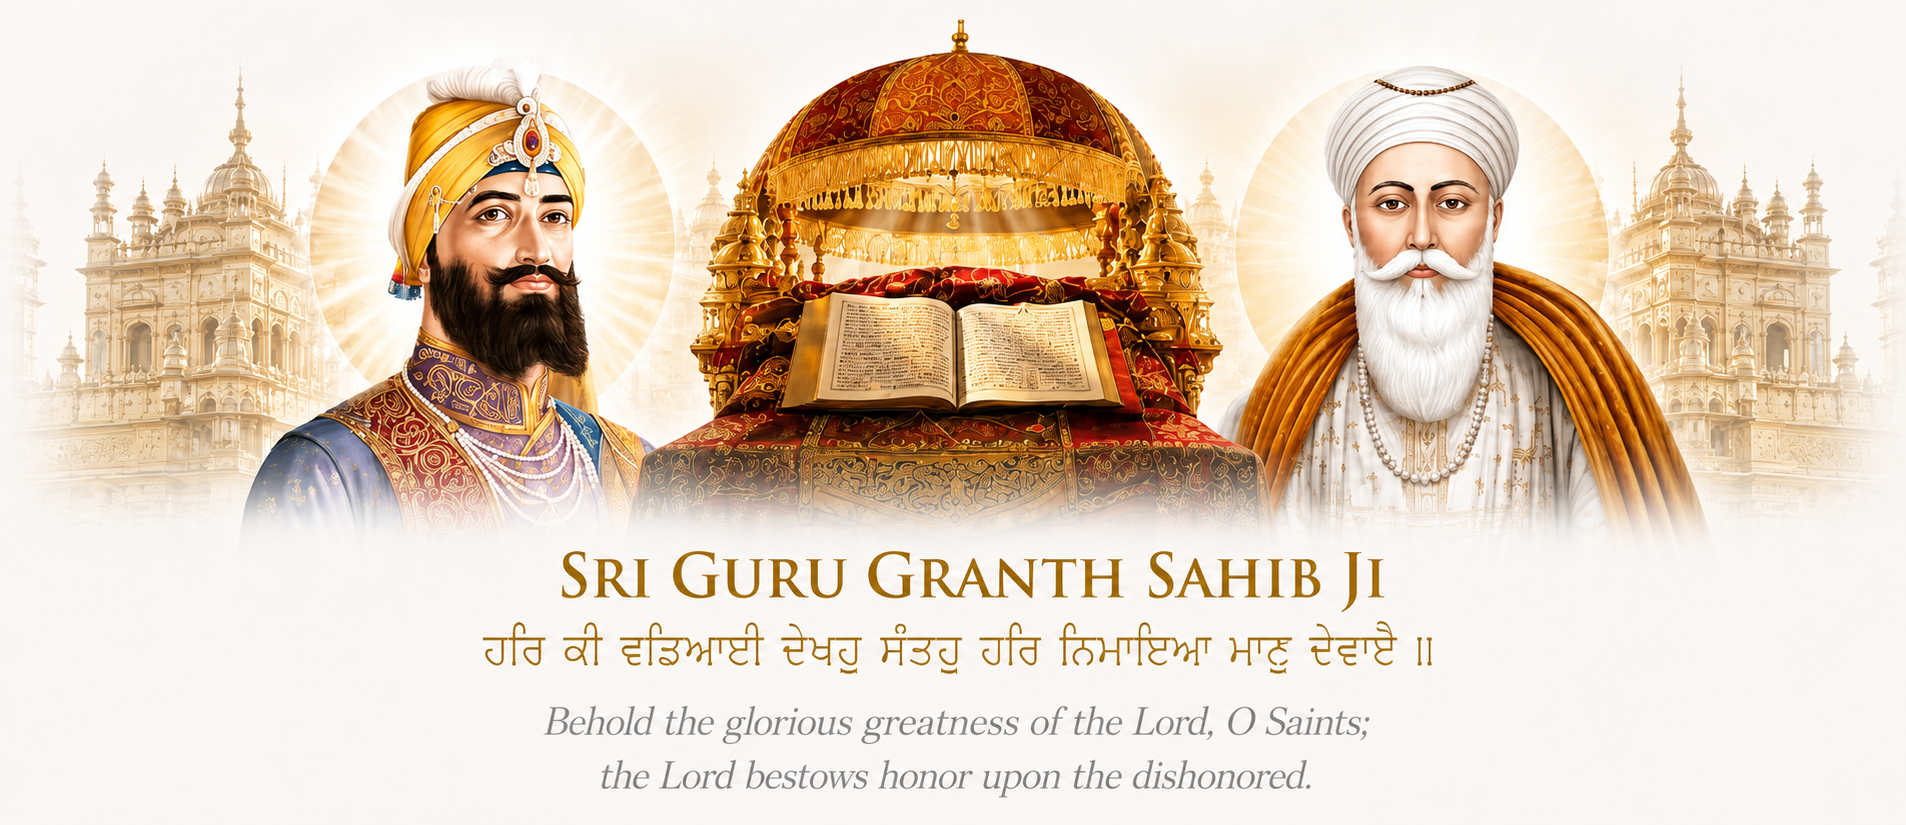
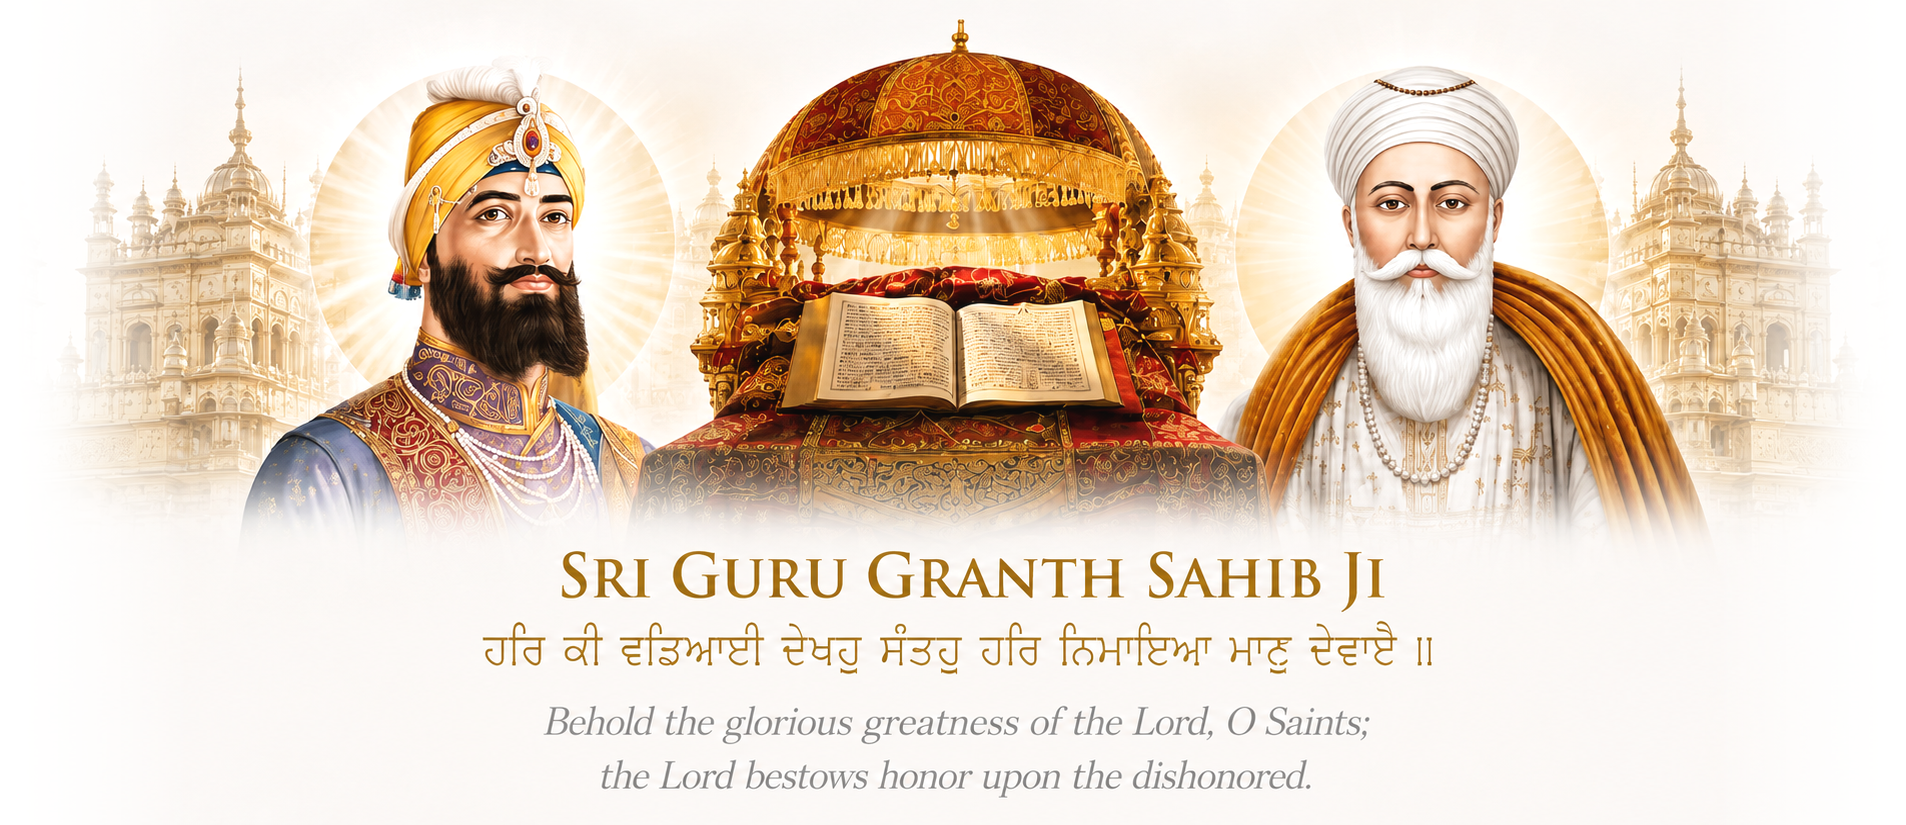
fix: dark mode guru portraits visibility, feathered hero sides & soft contrast, full translation clearance, and refined gurpurab card, v10.57.0

Changed region(s): [[0.8977, 0.2121, 1.0, 0.6061], [0.0, 0.2121, 0.0929, 0.6061]]

diff --git a/frontend/index.html b/frontend/index.html
@@ -337,6 +337,234 @@
       background: #D4943A !important;
       box-shadow: 0 0 10px rgba(212, 148, 58, 0.6) !important;
     }
+  
+    /* ─── DARK MODE / DYNAMIC NIGHT: GURU SLIDER VISIBILITY OVERRIDES ─── */
+    .greeting__portrait-slider {
+      position: relative !important;
+      width: 100% !important;
+      height: 160px !important;
+      overflow: visible !important;
+      touch-action: pan-y !important;
+      display: flex !important;
+      align-items: center !important;
+      justify-content: center !important;
+      user-select: none !important;
+      -webkit-user-select: none !important;
+      -webkit-user-drag: none !important;
+      cursor: grab !important;
+    }
+    .greeting__slider-track {
+      position: relative !important;
+      width: 100% !important;
+      height: 100% !important;
+      display: flex !important;
+      align-items: center !important;
+      justify-content: center !important;
+      opacity: 1 !important;
+      visibility: visible !important;
+    }
+    .greeting__slide {
+      position: absolute !important;
+      transition: transform 0.35s cubic-bezier(0.25, 1, 0.5, 1), opacity 0.3s ease, filter 0.3s ease !important;
+      opacity: 0 !important;
+      visibility: hidden !important;
+      pointer-events: none !important;
+      transform: scale(0.6) translateX(0) !important;
+      cursor: pointer !important;
+      user-select: none !important;
+      -webkit-user-select: none !important;
+      -webkit-user-drag: none !important;
+      display: block !important;
+    }
+    .greeting__slide--active {
+      opacity: 1 !important;
+      visibility: visible !important;
+      transform: scale(1.22) translateX(0) !important;
+      z-index: 10 !important;
+      pointer-events: auto !important;
+      filter: drop-shadow(0 8px 24px rgba(212, 148, 58, 0.45)) !important;
+    }
+    .greeting__slide--prev {
+      opacity: 0.72 !important;
+      visibility: visible !important;
+      transform: scale(0.85) translateX(-96px) !important;
+      z-index: 5 !important;
+      pointer-events: auto !important;
+      filter: drop-shadow(0 4px 14px rgba(0,0,0,0.4)) !important;
+    }
+    .greeting__slide--next {
+      opacity: 0.72 !important;
+      visibility: visible !important;
+      transform: scale(0.85) translateX(96px) !important;
+      z-index: 5 !important;
+      pointer-events: auto !important;
+      filter: drop-shadow(0 4px 14px rgba(0,0,0,0.4)) !important;
+    }
+    .greeting__slide--far-prev {
+      opacity: 0.28 !important;
+      visibility: visible !important;
+      transform: scale(0.62) translateX(-160px) !important;
+      z-index: 1 !important;
+      pointer-events: auto !important;
+    }
+    .greeting__slide--far-next {
+      opacity: 0.28 !important;
+      visibility: visible !important;
+      transform: scale(0.62) translateX(160px) !important;
+      z-index: 1 !important;
+      pointer-events: auto !important;
+    }
+    .greeting__guru-portrait {
+      width: 104px !important;
+      height: 104px !important;
+      border-radius: 50% !important;
+      overflow: hidden !important;
+      border: 3px solid #D4943A !important;
+      box-shadow: 0 4px 18px rgba(0, 0, 0, 0.4), 0 0 16px rgba(212, 148, 58, 0.3) !important;
+      background: #1C1C1E !important;
+      pointer-events: none !important;
+      user-select: none !important;
+      -webkit-user-drag: none !important;
+    }
+    .greeting__guru-portrait img {
+      width: 100% !important;
+      height: 100% !important;
+      object-fit: cover !important;
+      display: block !important;
+      pointer-events: none !important;
+      -webkit-user-drag: none !important;
+      user-select: none !important;
+    }
+
+    /* ─── SACRED HERO ARTWORK (LIGHT/DYNAMIC): FULL CLEARANCE WITHOUT BOTTOM CLIPPING ─── */
+    .greeting {
+      margin-top: -8px !important;
+      margin-bottom: 28px !important;
+      padding: 0 0 14px 0 !important;
+      text-align: center !important;
+      position: relative !important;
+      width: 100% !important;
+      max-width: 100% !important;
+      overflow: visible !important;
+    }
+    .greeting__hero-banner {
+      position: relative !important;
+      width: 100% !important;
+      max-width: 1100px !important;
+      margin: 0 auto !important;
+      display: flex !important;
+      justify-content: center !important;
+      align-items: center !important;
+      overflow: visible !important;
+      padding-bottom: 10px !important;
+      box-sizing: border-box !important;
+    }
+    @media (max-width: 767px) {
+      .greeting {
+        width: 100vw !important;
+        max-width: 100vw !important;
+        margin-left: calc(-50vw + 50%) !important;
+        margin-right: calc(-50vw + 50%) !important;
+        overflow: visible !important;
+      }
+      .greeting__hero-banner {
+        transform: scale(1.08) !important;
+      }
+    }
+    .greeting__hero-artwork {
+      width: 100% !important;
+      max-width: 100% !important;
+      height: auto !important;
+      aspect-ratio: 1906 / 825 !important;
+      object-fit: contain !important;
+      display: block !important;
+      image-rendering: -webkit-optimize-contrast !important;
+      image-rendering: high-quality !important;
+    }
+
+    /* ─── 5. GURPURAB CALENDAR CARD (PREMIUM CUSHION CLAY & TYPOGRAPHY) ─── */
+    .event-card {
+      padding: 14px 18px !important;
+      border-radius: 24px !important;
+      min-height: auto !important;
+      border: none !important;
+      box-shadow: 
+        5px 7px 18px rgba(212, 168, 83, 0.12),
+        -3px -3px 8px rgba(255, 255, 255, 0.98),
+        inset 1.5px 1.5px 3px rgba(255, 255, 255, 1),
+        inset -1.5px -1.5px 3px rgba(212, 168, 83, 0.05) !important;
+      background: linear-gradient(135deg, #FFFFFF 0%, #FFFDF8 50%, #FAF2DE 100%) !important;
+      overflow: hidden !important;
+      margin-bottom: 18px !important;
+    }
+    html.dark-mode .event-card,
+    [data-theme="dark"] .event-card,
+    [data-time-of-day="night"] .event-card {
+      background: linear-gradient(150deg, #18181B 0%, #101012 100%) !important;
+      border: none !important;
+      box-shadow: 
+        5px 6px 16px rgba(0, 0, 0, 0.65),
+        -2px -2px 6px rgba(255, 255, 255, 0.03),
+        inset 2px 2px 4px rgba(212, 148, 58, 0.18),
+        inset -2px -2px 5px rgba(0, 0, 0, 0.45) !important;
+    }
+    .event-card__content {
+      display: flex !important;
+      flex-direction: row !important;
+      align-items: center !important;
+      justify-content: space-between !important;
+      gap: 16px !important;
+      width: 100% !important;
+    }
+    .event-card__left {
+      flex: 1 1 auto !important;
+      min-width: 0 !important;
+    }
+    .event-card__title {
+      font-size: 1.05rem !important;
+      line-height: 1.35 !important;
+      font-weight: 700 !important;
+      margin: 4px 0 8px 0 !important;
+      white-space: normal !important;
+      word-wrap: break-word !important;
+      color: #1A1A1A !important;
+      letter-spacing: -0.2px !important;
+    }
+    html.dark-mode .event-card__title,
+    [data-theme="dark"] .event-card__title,
+    [data-time-of-day="night"] .event-card__title {
+      color: #F5E6C8 !important;
+    }
+    .event-card__badge-row {
+      display: flex !important;
+      align-items: center !important;
+      gap: 8px !important;
+      flex-wrap: wrap !important;
+      margin-top: 2px !important;
+    }
+    .event-card__guru-wrapper {
+      width: 82px !important;
+      height: 82px !important;
+      min-width: 82px !important;
+      min-height: 82px !important;
+      border-radius: 50% !important;
+      padding: 2.5px !important;
+      background: linear-gradient(145deg, #F5E6C8 0%, #D4A84B 50%, #B8860B 100%) !important;
+      box-shadow: 0 4px 14px rgba(212, 168, 83, 0.35) !important;
+      display: flex !important;
+      align-items: center !important;
+      justify-content: center !important;
+      flex-shrink: 0 !important;
+    }
+    .event-card__guru-img {
+      width: 100% !important;
+      height: 100% !important;
+      object-fit: cover !important;
+      object-position: center 25% !important;
+      border-radius: 50% !important;
+      opacity: 1 !important;
+      display: block !important;
+    }
   </style>
   
   <meta name="viewport" content="width=device-width, initial-scale=1.0, maximum-scale=5.0, viewport-fit=cover">
@@ -3918,6 +4146,61 @@
 
             <div class="greeting__portrait-slider" id="guruSlider" aria-label="Guru Portraits Carousel">
               <div class="greeting__slider-track" id="guruSliderTrack">
+                <div class="greeting__slide" data-guru="guru-nanak" data-index="0">
+                  <div class="greeting__guru-portrait">
+                    <img src="guruimages/gurunanakdevsahebji.jpeg" alt="Sri Guru Nanak Dev Sahib Ji" style="object-position: center 20%;" loading="eager" draggable="false">
+                  </div>
+                </div>
+                <div class="greeting__slide" data-guru="guru-angad" data-index="1">
+                  <div class="greeting__guru-portrait">
+                    <img src="guruimages/guruangaddevsahebji.jpeg" alt="Sri Guru Angad Dev Sahib Ji" style="object-position: center 25%;" loading="lazy" draggable="false">
+                  </div>
+                </div>
+                <div class="greeting__slide" data-guru="guru-amar-das" data-index="2">
+                  <div class="greeting__guru-portrait">
+                    <img src="guruimages/guruamardasji.jpeg" alt="Sri Guru Amar Das Sahib Ji" style="object-position: center 25%;" loading="lazy" draggable="false">
+                  </div>
+                </div>
+                <div class="greeting__slide" data-guru="guru-ram-das" data-index="3">
+                  <div class="greeting__guru-portrait">
+                    <img src="guruimages/gururamdassahebji.jpeg" alt="Sri Guru Ram Das Sahib Ji" style="object-position: center 25%;" loading="lazy" draggable="false">
+                  </div>
+                </div>
+                <div class="greeting__slide" data-guru="guru-arjan" data-index="4">
+                  <div class="greeting__guru-portrait">
+                    <img src="guruimages/guruarjanddevsahebji.jpeg" alt="Sri Guru Arjan Dev Sahib Ji" style="object-position: center 25%;" loading="lazy" draggable="false">
+                  </div>
+                </div>
+                <div class="greeting__slide" data-guru="guru-hargobind" data-index="5">
+                  <div class="greeting__guru-portrait">
+                    <img src="guruimages/guruhargobindsahebji.jpeg" alt="Sri Guru Hargobind Sahib Ji" style="object-position: center 25%;" loading="lazy" draggable="false">
+                  </div>
+                </div>
+                <div class="greeting__slide" data-guru="guru-har-rai" data-index="6">
+                  <div class="greeting__guru-portrait">
+                    <img src="guruimages/guruharraisahebji.jpeg" alt="Sri Guru Har Rai Sahib Ji" style="object-position: center 25%;" loading="lazy" draggable="false">
+                  </div>
+                </div>
+                <div class="greeting__slide" data-guru="guru-harkrishan" data-index="7">
+                  <div class="greeting__guru-portrait">
+                    <img src="guruimages/guruharkrishansahebji.jpeg" alt="Sri Guru Har Krishan Sahib Ji" style="object-position: center 25%;" loading="lazy" draggable="false">
+                  </div>
+                </div>
+                <div class="greeting__slide greeting__slide--far-prev" data-guru="guru-teg-bahadur" data-index="8">
+                  <div class="greeting__guru-portrait">
+                    <img src="guruimages/gurutegbahadursahebji.jpeg" alt="Sri Guru Tegh Bahadur Sahib Ji" style="object-position: center 45%;" loading="lazy" draggable="false">
+                  </div>
+                </div>
+                <div class="greeting__slide greeting__slide--prev" data-guru="guru-gobind" data-index="9">
+                  <div class="greeting__guru-portrait">
+                    <img src="guruimages/gurugobindsinghsahebji.jpeg" alt="Sri Guru Gobind Singh Sahib Ji" style="object-position: center 25%;" loading="eager" draggable="false">
+                  </div>
+                </div>
+                <div class="greeting__slide greeting__slide--active" data-guru="sggs" data-index="10">
+                  <div class="greeting__guru-portrait">
+                    <img src="guruimages/gurugranthsahebji.jpeg" alt="Sri Guru Granth Sahib Ji" style="object-position: center 25%;" loading="eager" draggable="false">
+                  </div>
+                </div>
               </div>
             </div>
 

diff --git a/frontend/sw.js b/frontend/sw.js
@@ -12,7 +12,7 @@
  * ═══════════════════════════════════════════════════════════════════════════════
  */
 
-const CACHE_VERSION = 'anhad-v10.56.0'; // v10.50.0: Perfected 16px floating gap between mini-player and bottom tab bar, whisper-soft pastel white cushion clay cards, and instant pre-cached navigation.
+const CACHE_VERSION = 'anhad-v10.57.0'; // v10.50.0: Perfected 16px floating gap between mini-player and bottom tab bar, whisper-soft pastel white cushion clay cards, and instant pre-cached navigation.
 // v10.29.0: Root-caused why fixes kept looking reverted on both localhost AND the deployed site despite correct source: .js/.css requests (rule 4 below) used cacheFirst(), which NEVER revalidates a hit — once any browser fetched e.g. nav-glass.css once, it kept serving that exact response forever regardless of CACHE_VERSION bumps, until the whole detect-new-SW/install/activate/reload chain happened to complete for that specific client. .html already used staleWhileRevalidate for exactly this reason (see the v10.13-v10.22 history below) but .js/.css never did. Moved .js/.css to staleWhileRevalidate too (new rule 3c) — verified live by injecting a fake stale response into an active client's cache and confirming the SECOND fetch (not a reload, not a cache clear, ~1s later) automatically served the real current file. Also: de-clobbered window.__anhadPageInit — trendora-app.js and homepage-data.js registered the identical 4 keys for Home and the second one to load silently overwrote the first, so only one of the two intended repopulation paths ever actually ran; now both compose, with the double-render debounce moved inside refreshHomeForSpa itself so having two live trigger paths again can't reintroduce the flash. Shell script loads that fail now retry once and log clearly instead of onerror=resolve silently treating a failed fetch as success forever. Added missing cache-busting query params to smooth-navigation.js/homepage-data.js. Live-measured the reported Home bottom gap on a guaranteed-fresh load: padding-bottom computes to exactly 110px, on-screen gap measures 109.67px — matches source exactly, confirming the gap itself was never a code bug, only ever a symptom of the same stale-cache issue this version fixes at the root.
 // v10.28.0: Decreased excessive bottom padding-bottom from 160px to 110px in nav-glass.css, and upgraded the Nitnem, Sehaj Paath, and Hukamnama practice cards with premium 3D soft claymorphism (ambient soft colored drop shadows + inset light reflection and shadow highlights) in both Light & Dark modes.
 // v10.26.0: Found the REAL remaining cause of the Home/Favorites "two-time flash" the user kept reporting even after v10.23/v10.24 — a CSS entrance animation (.page-enter, anhad-core.css), applied by JS via smooth-navigation.js's unconditional post-swap AnhadCore.init() -> initTransition() call, on an #app container that was already fully painted and visible. Adding a class that newly matches an `animation` rule restarts it regardless of how it's added — so this genuinely replayed the 0.48s "fade up from below" entrance on top of content the user was already looking at, on every single arrival at Home/Favorites. Insights never showed this because its own swapped content (#mainContent) already ships `page-enter` baked into its static HTML, so the later JS class-add is a true no-op there (class already present). Fix: added `page-enter` to Home's and Favorites' own #app markup, matching Insights' pattern exactly, instead of touching the JS trigger at all — verified via CDP by sampling #app's actual computed opacity every 25ms across 5 rapid Home<->Favorites round trips (the exact "gets worse the more I test" scenario reported): 172 samples, zero re-triggers, zero errors. Also fixed the Learning page's Daily Gursikhi Quiz re-prompting the same already-answered question on every revisit — it had no persistence at all; now stores {date, selectedIdx} in localStorage (en-CA date, matching the app's existing per-day convention) and restores the answered state instead of a fresh clickable question until the next calendar day.

diff --git a/frontend/js/trendora-app.js b/frontend/js/trendora-app.js
@@ -353,23 +353,32 @@
     init() {
       const track = document.getElementById('guruSliderTrack');
       if (!track) return;
-      track.innerHTML = '';
-      this._gurus.forEach((guru, i) => {
-        const slide = document.createElement('div');
-        slide.className = 'greeting__slide';
-        slide.setAttribute('data-guru', guru.id);
-        slide.setAttribute('data-index', i);
-        slide.innerHTML = `
-          <div class="greeting__guru-portrait">
-            <img src="${guru.img}" alt="${guru.name}" style="object-position: ${guru.pos || 'center 25%'}; pointer-events: none; -webkit-user-drag: none; user-select: none;" loading="lazy" draggable="false">
-          </div>
-        `;
-        slide.addEventListener('click', (e) => {
+      
+      // If track has no slides, generate them
+      if (track.children.length === 0) {
+        track.innerHTML = '';
+        this._gurus.forEach((guru, i) => {
+          const slide = document.createElement('div');
+          slide.className = 'greeting__slide';
+          slide.setAttribute('data-guru', guru.id);
+          slide.setAttribute('data-index', i);
+          slide.innerHTML = `
+            <div class="greeting__guru-portrait">
+              <img src="${guru.img}" alt="${guru.name}" style="object-position: ${guru.pos || 'center 25%'}; pointer-events: none; -webkit-user-drag: none; user-select: none;" loading="lazy" draggable="false">
+            </div>
+          `;
+          track.appendChild(slide);
+        });
+      }
+
+      // Bind click on all slides
+      const slides = track.querySelectorAll('.greeting__slide');
+      slides.forEach((slide, i) => {
+        slide.onclick = (e) => {
           e.stopPropagation();
           this._currentIndex = i;
           this.update();
-        });
-        track.appendChild(slide);
+        };
       });
 
       this._renderDots();
